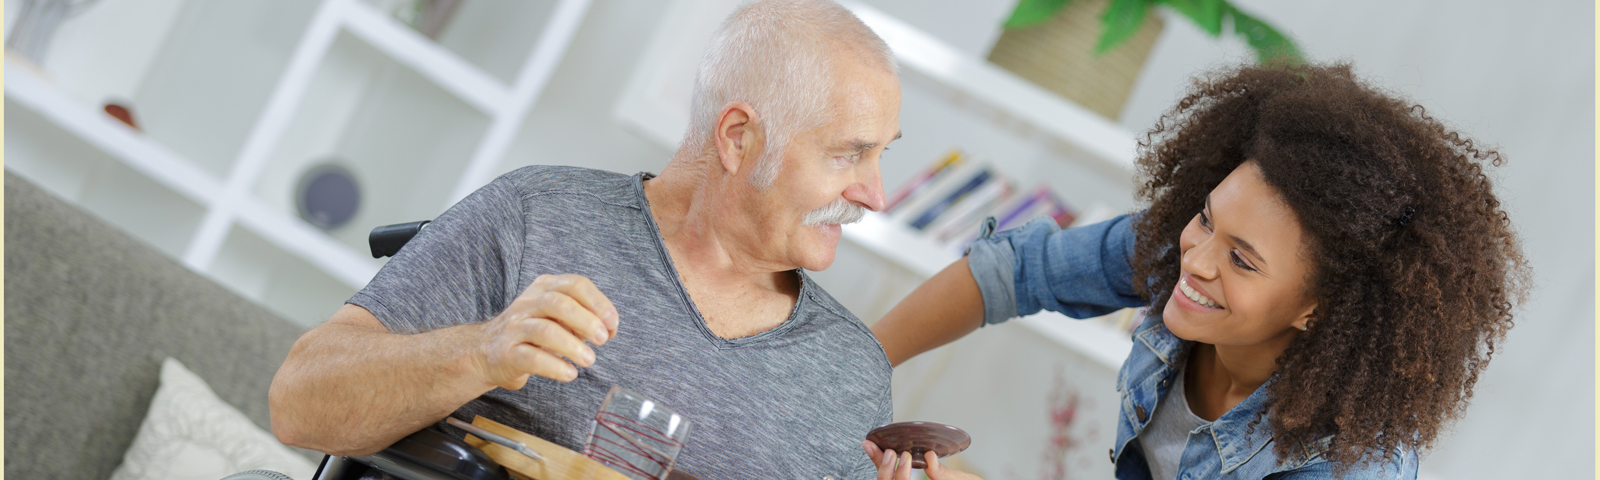
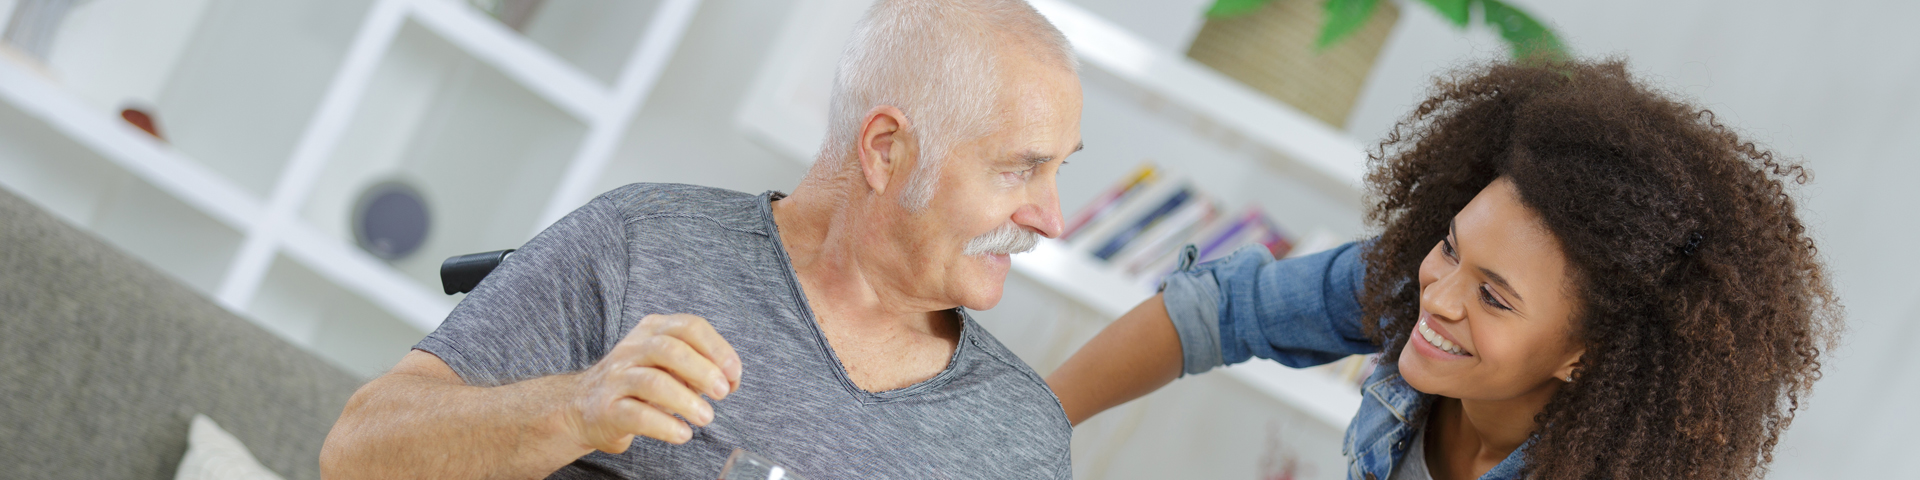
center carousel images and resize them to 1920px x 480 px

diff --git a/src/html/index.html b/src/html/index.html
@@ -56,7 +56,7 @@
         </ol>
         <div class="carousel-inner">
             <div class="carousel-item carousel-image-1 active">
-                <img class="d-block img-fluid" src="img/independent.jpg" alt="Samen boodschapppen doen">
+                <img class="d-block mx-auto img-fluid" src="img/independent.jpg" alt="Samen boodschapppen doen">
                 <div class="container">
                     <div class="carousel-caption d-none d-sm-block mb-auto">
                         <h1 class="display-3">Zelfstandig</h1>
@@ -67,7 +67,7 @@
             </div>
 
             <div class="carousel-item carousel-image-2">
-                <img class="d-block img-fluid" src="img/time.jpg" alt="Tijd voor mooie momenten">
+                <img class="d-block mx-auto img-fluid" src="img/time.jpg" alt="Tijd voor mooie momenten">
                 <div class="container">
                     <div class="carousel-caption d-none d-sm-block mb-auto">
                         <h1 class="display-3">Tijd</h1>
@@ -78,7 +78,7 @@
             </div>
 
             <div class="carousel-item carousel-image-3">
-                <img class="d-block img-fluid" src="img/company.jpg" alt="Een luisterend oor">
+                <img class="d-block mx-auto img-fluid" src="img/company.jpg" alt="Een luisterend oor">
                 <div class="container">
                     <div class="carousel-caption d-none d-sm-block mb-auto">
                         <h1 class="display-3">Gezelschap</h1>
